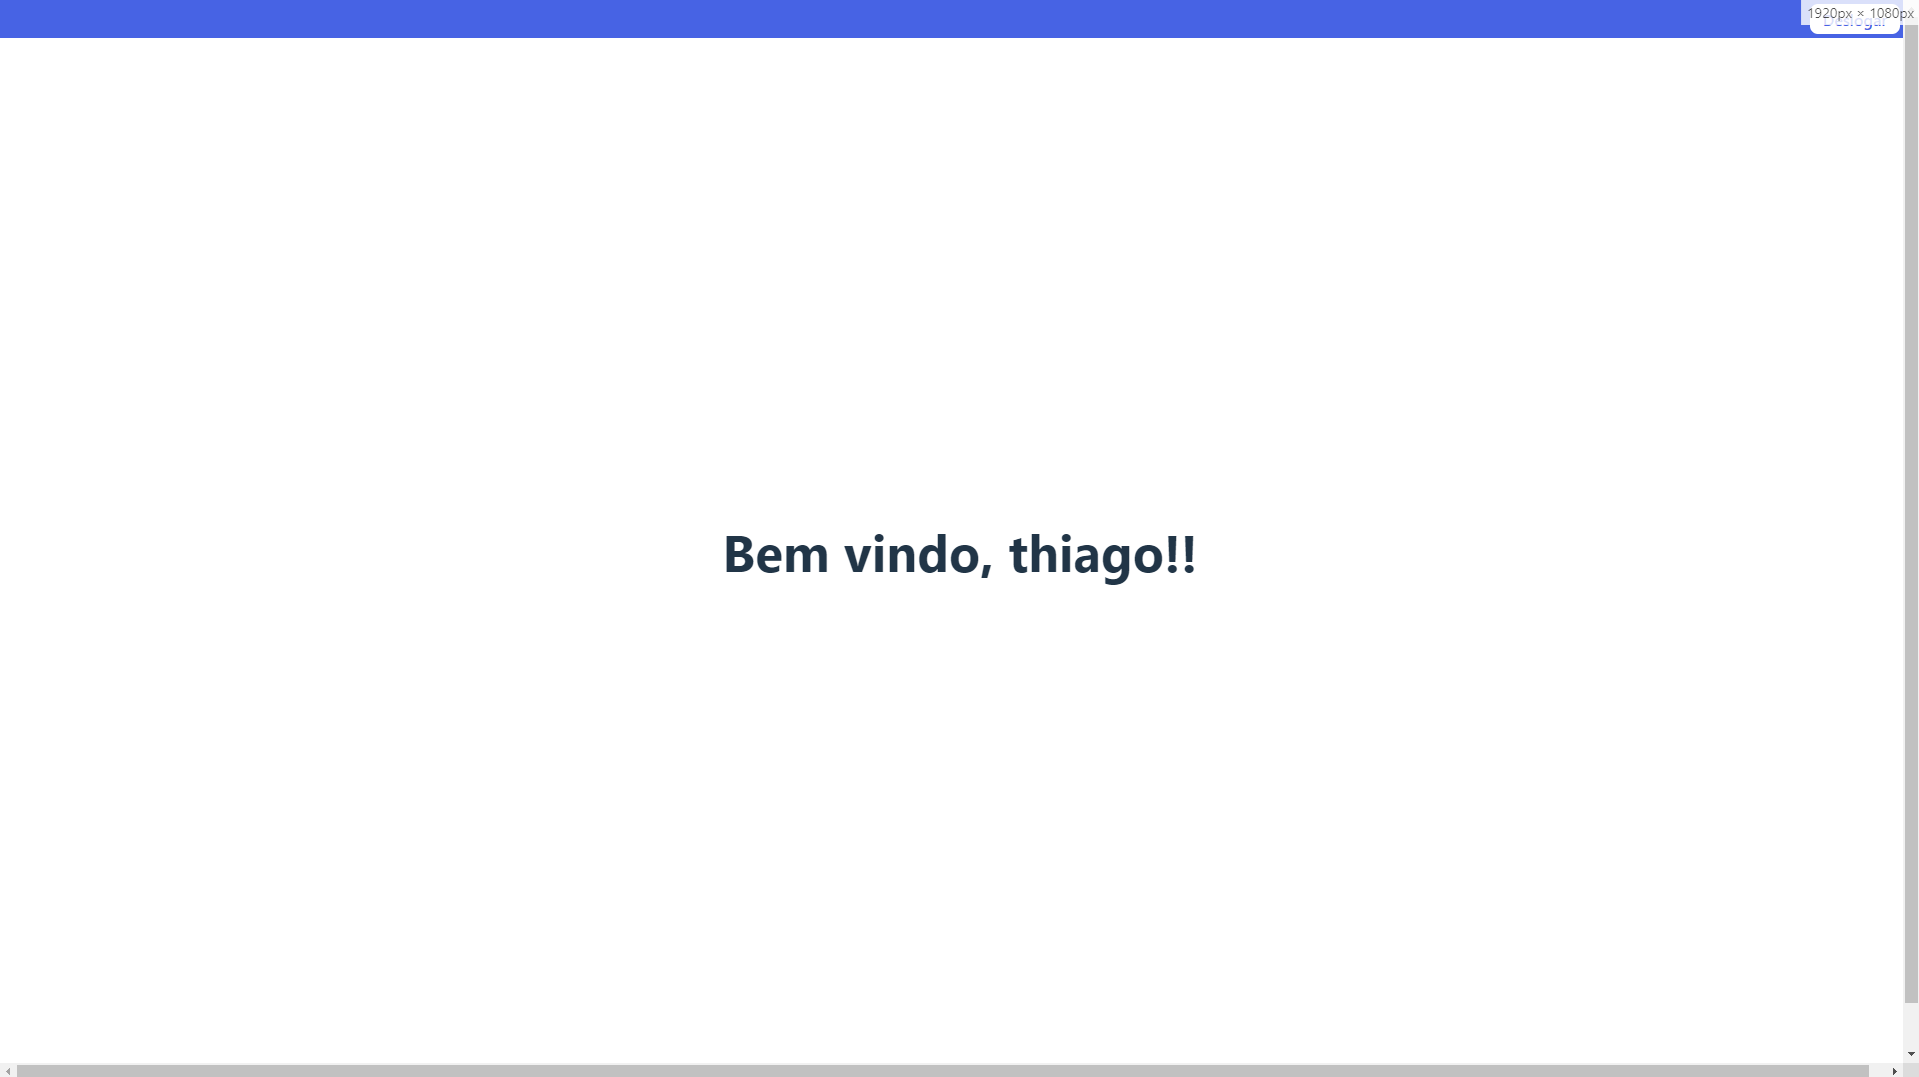
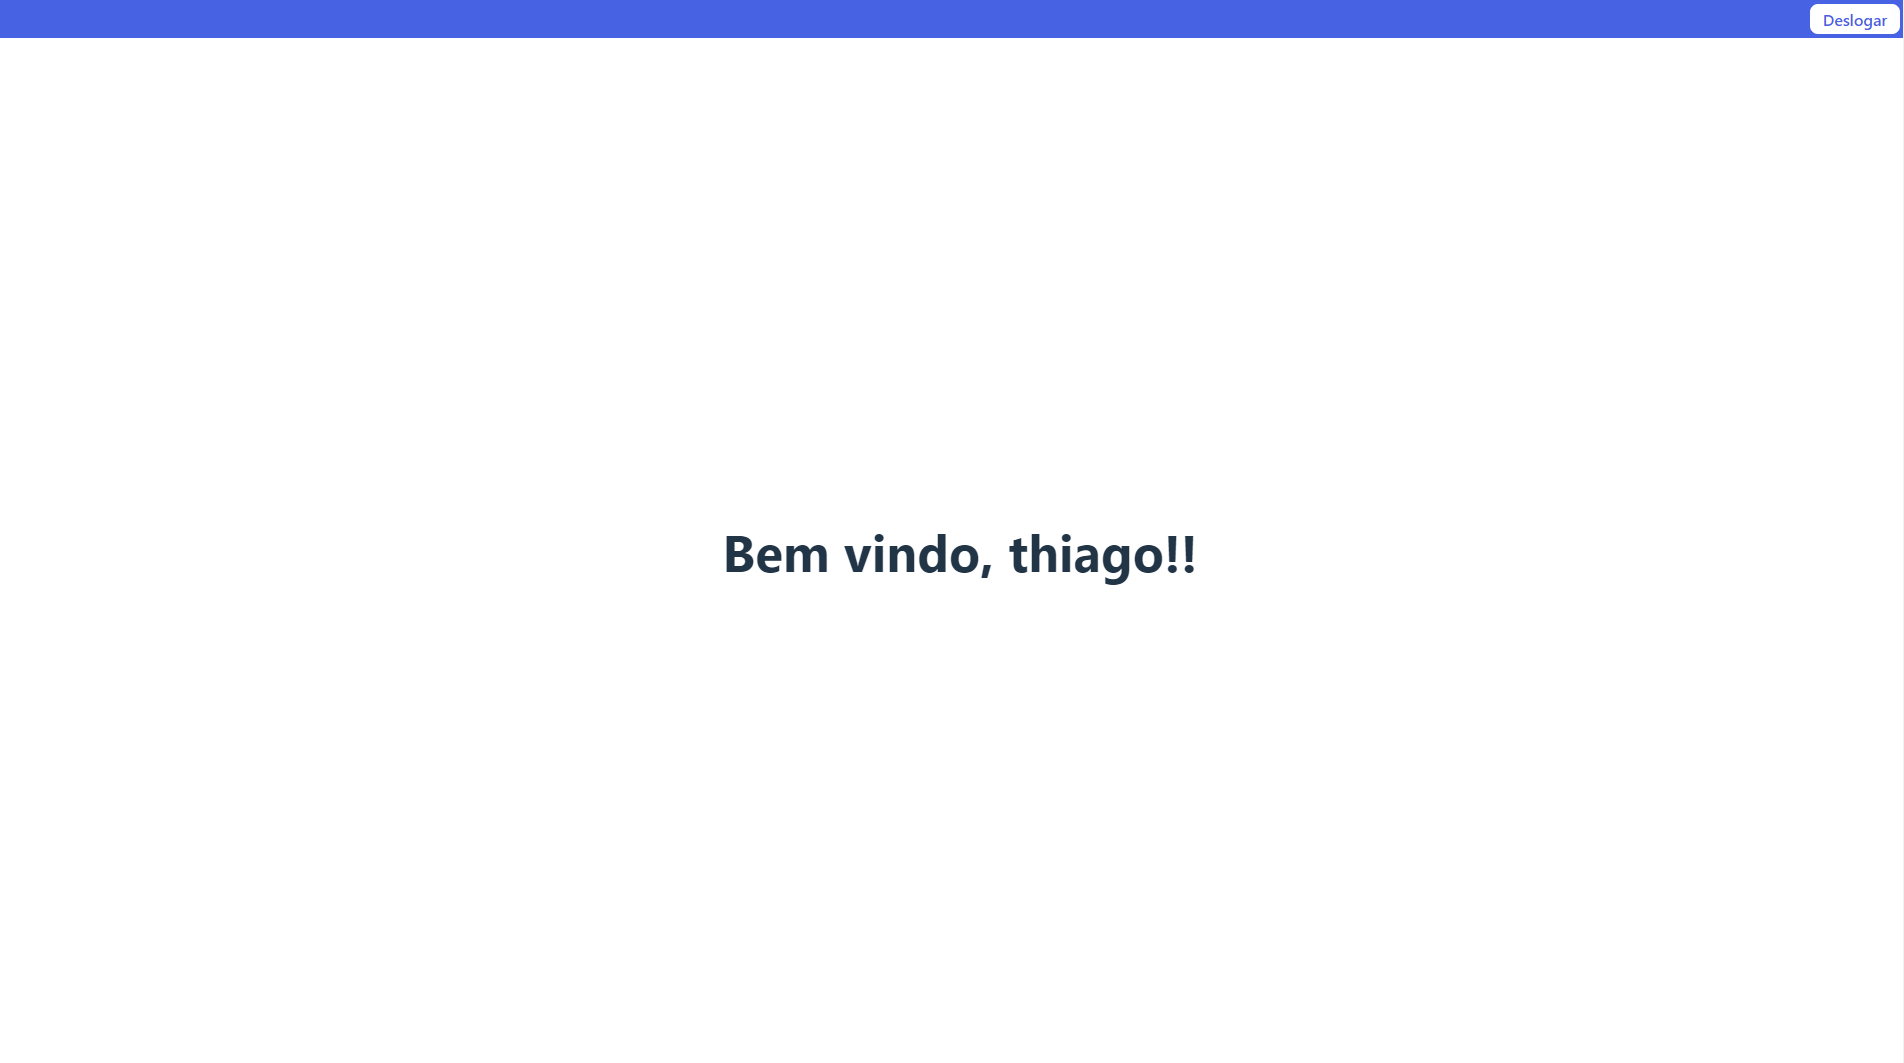
v0.2

Changed region(s): [[0.0, 0.9624, 1.0, 1.0], [0.9296, 0.0, 1.0, 0.9313], [0.3718, 0.4967, 0.6507, 0.5588]]

diff --git a/build/index.html b/build/index.html
@@ -1,0 +1,89 @@
+<!DOCTYPE html>
+<html>
+  <head>
+    <meta charset="utf-8">
+    <meta name="viewport" content="width=device-width, initial-scale=1">
+    <title>Welcome to Firebase Hosting</title>
+
+    <!-- update the version number as needed -->
+    <script defer src="/__/firebase/10.7.1/firebase-app-compat.js"></script>
+    <!-- include only the Firebase features as you need -->
+    <script defer src="/__/firebase/10.7.1/firebase-auth-compat.js"></script>
+    <script defer src="/__/firebase/10.7.1/firebase-database-compat.js"></script>
+    <script defer src="/__/firebase/10.7.1/firebase-firestore-compat.js"></script>
+    <script defer src="/__/firebase/10.7.1/firebase-functions-compat.js"></script>
+    <script defer src="/__/firebase/10.7.1/firebase-messaging-compat.js"></script>
+    <script defer src="/__/firebase/10.7.1/firebase-storage-compat.js"></script>
+    <script defer src="/__/firebase/10.7.1/firebase-analytics-compat.js"></script>
+    <script defer src="/__/firebase/10.7.1/firebase-remote-config-compat.js"></script>
+    <script defer src="/__/firebase/10.7.1/firebase-performance-compat.js"></script>
+    <!-- 
+      initialize the SDK after all desired features are loaded, set useEmulator to false
+      to avoid connecting the SDK to running emulators.
+    -->
+    <script defer src="/__/firebase/init.js?useEmulator=true"></script>
+
+    <style media="screen">
+      body { background: #ECEFF1; color: rgba(0,0,0,0.87); font-family: Roboto, Helvetica, Arial, sans-serif; margin: 0; padding: 0; }
+      #message { background: white; max-width: 360px; margin: 100px auto 16px; padding: 32px 24px; border-radius: 3px; }
+      #message h2 { color: #ffa100; font-weight: bold; font-size: 16px; margin: 0 0 8px; }
+      #message h1 { font-size: 22px; font-weight: 300; color: rgba(0,0,0,0.6); margin: 0 0 16px;}
+      #message p { line-height: 140%; margin: 16px 0 24px; font-size: 14px; }
+      #message a { display: block; text-align: center; background: #039be5; text-transform: uppercase; text-decoration: none; color: white; padding: 16px; border-radius: 4px; }
+      #message, #message a { box-shadow: 0 1px 3px rgba(0,0,0,0.12), 0 1px 2px rgba(0,0,0,0.24); }
+      #load { color: rgba(0,0,0,0.4); text-align: center; font-size: 13px; }
+      @media (max-width: 600px) {
+        body, #message { margin-top: 0; background: white; box-shadow: none; }
+        body { border-top: 16px solid #ffa100; }
+      }
+    </style>
+  </head>
+  <body>
+    <div id="message">
+      <h2>Welcome</h2>
+      <h1>Firebase Hosting Setup Complete</h1>
+      <p>You're seeing this because you've successfully setup Firebase Hosting. Now it's time to go build something extraordinary!</p>
+      <a target="_blank" href="https://firebase.google.com/docs/hosting/">Open Hosting Documentation</a>
+    </div>
+    <p id="load">Firebase SDK Loading&hellip;</p>
+
+    <script>
+      document.addEventListener('DOMContentLoaded', function() {
+        const loadEl = document.querySelector('#load');
+        // // 🔥🔥🔥🔥🔥🔥🔥🔥🔥🔥🔥🔥🔥🔥🔥🔥🔥🔥🔥🔥🔥🔥🔥🔥🔥🔥🔥🔥🔥🔥🔥
+        // // The Firebase SDK is initialized and available here!
+        //
+        // firebase.auth().onAuthStateChanged(user => { });
+        // firebase.database().ref('/path/to/ref').on('value', snapshot => { });
+        // firebase.firestore().doc('/foo/bar').get().then(() => { });
+        // firebase.functions().httpsCallable('yourFunction')().then(() => { });
+        // firebase.messaging().requestPermission().then(() => { });
+        // firebase.storage().ref('/path/to/ref').getDownloadURL().then(() => { });
+        // firebase.analytics(); // call to activate
+        // firebase.analytics().logEvent('tutorial_completed');
+        // firebase.performance(); // call to activate
+        //
+        // // 🔥🔥🔥🔥🔥🔥🔥🔥🔥🔥🔥🔥🔥🔥🔥🔥🔥🔥🔥🔥🔥🔥🔥🔥🔥🔥🔥🔥🔥🔥🔥
+
+        try {
+          let app = firebase.app();
+          let features = [
+            'auth', 
+            'database', 
+            'firestore',
+            'functions',
+            'messaging', 
+            'storage', 
+            'analytics', 
+            'remoteConfig',
+            'performance',
+          ].filter(feature => typeof app[feature] === 'function');
+          loadEl.textContent = `Firebase SDK loaded with ${features.join(', ')}`;
+        } catch (e) {
+          console.error(e);
+          loadEl.textContent = 'Error loading the Firebase SDK, check the console.';
+        }
+      });
+    </script>
+  </body>
+</html>

diff --git a/src/components/Footer.jsx b/src/components/Footer.jsx
@@ -9,8 +9,6 @@ function Footer() {
           display:'flex',
           alignItems: 'center',
           justifyContent:'center',
-          
-
       }}>
         © Thiago R. All rights reserved.
       </footer>

diff --git a/src/pages/styles.css b/src/pages/styles.css
@@ -50,7 +50,7 @@
     align-items: flex-start;
     padding: 16px;
     width: 520px;
-    height: 49px;
+    height: 30px;
     border: 1px solid #5C73DB;
     border-radius: 12px;
     margin-bottom: 12px;
